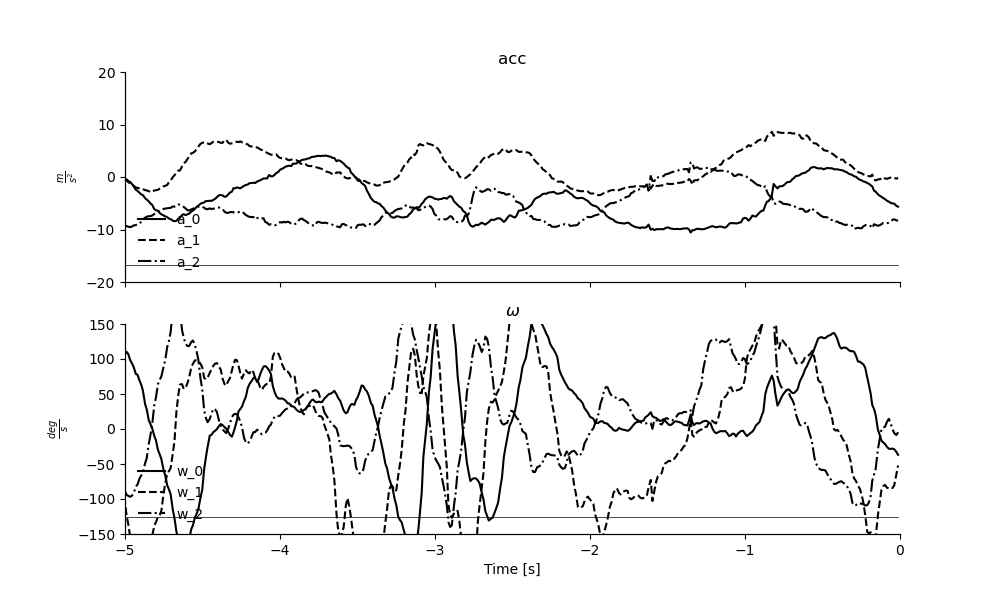
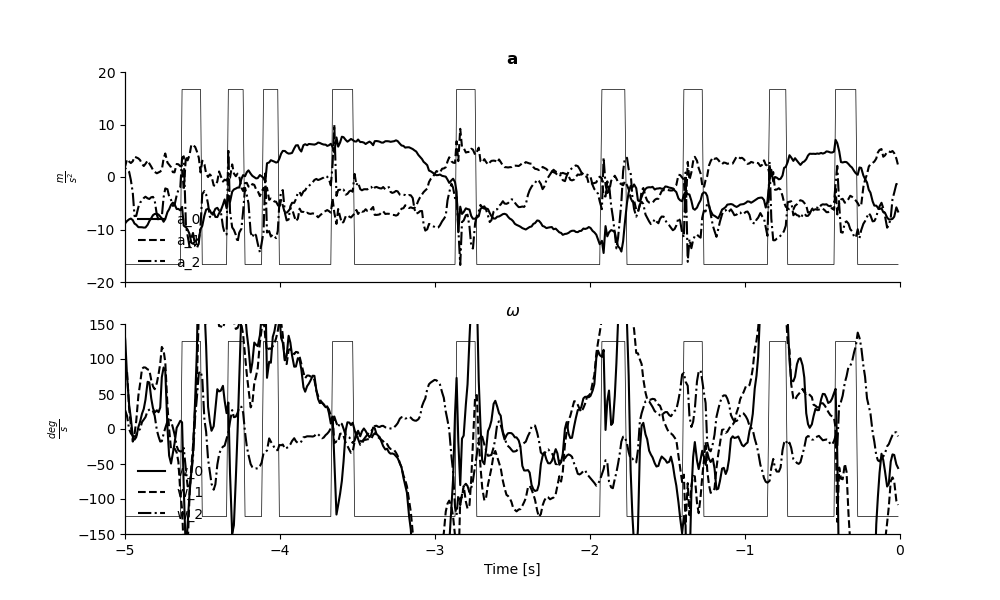
Nicer a!

diff --git a/src/collect/plot_ser.py b/src/collect/plot_ser.py
@@ -49,7 +49,7 @@ for i in range(2):
     axsw[i].set_yticks([])
 axa.set_ylim([-20, 20])
 axw.set_ylim([-150, 150])
-axa.set_title('acc')
+axa.set_title(r'$\mathbf{a}$')
 axa.set_ylabel(r'$\frac{m}{s^2}$')
 axw.set_title(r'$\omega$')
 axw.set_ylabel(r'$\frac{deg}{s}$')
